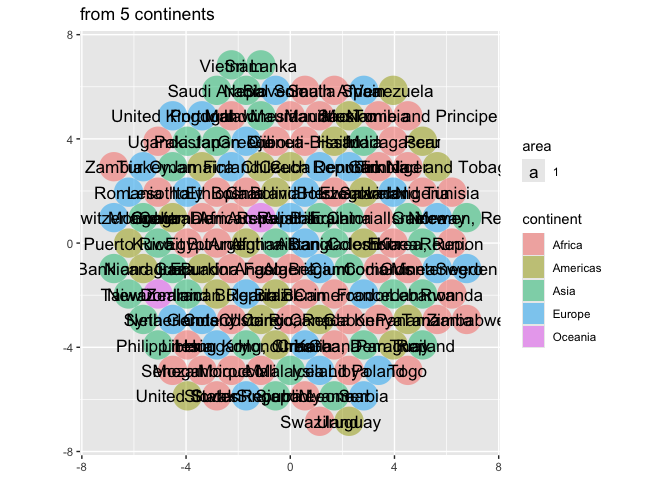
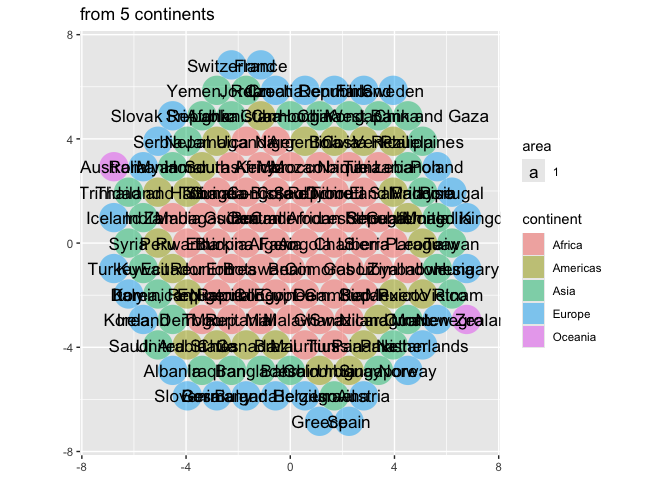
testing with more disaggregation and not great, but hopefully quick fix ahead

Changed region(s): [[0.125, 0.0938, 0.75, 0.9062]]

diff --git a/README.md b/README.md
@@ -146,7 +146,8 @@ compute_panel_circlepack_center <- function(data, scales){
   
   data %>% 
     count(wt = area) %>% 
-    arrange(id) %>% # this doesn't feel very principled
+    ungroup() %>% 
+    # arrange(id) %>% # this doesn't feel very principled
     rename(area = n) ->
   data
 
@@ -291,7 +292,8 @@ compute_panel_circlepack <- function(data, scales){
   
   data %>% 
     count(wt = area) %>% 
-    arrange(id) %>%  # this doesn't feel very principled
+    ungroup() %>% 
+    # arrange(id) %>%  # this doesn't feel very principled
     rename(area = n) ->
   data
 
@@ -962,15 +964,57 @@ tidytitanic::tidy_titanic %>%
   head()
 ```
 
-    tidytitanic::tidy_titanic() + 
-      ggplot() + 
-      aes(id = "all") + 
-      geom_circlepack(alpha = .5) + 
-      geom_circlepack_text(aes(label = afterstat(count))) + # automatically labels with count
-      aes(linetype = sex) + 
-      aes(color = age) + 
-      aes(alpha = survived) + 
-      facet_wrap(~class)
+``` r
+tidytitanic::tidy_titanic %>% 
+  ggplot() + 
+  aes(id = "all") + 
+  geom_circlepack(alpha = .5) +
+  geom_circlepack_text(aes(label = after_stat(area))) +
+  coord_equal()
+#> Warning in geom_circlepack(alpha = 0.5): All aesthetics have length 1, but the data has 2201 rows.
+#> ℹ Please consider using `annotate()` or provide this layer with data containing
+#>   a single row.
+#> Warning in geom_circlepack_text(aes(label = after_stat(area))): All aesthetics have length 1, but the data has 2201 rows.
+#> ℹ Please consider using `annotate()` or provide this layer with data containing
+#>   a single row.
+```
+
+<img src="man/figures/README-unnamed-chunk-10-1.png" width="100%" />
+
+``` r
+
+last_plot() +
+  aes(fill = sex) 
+```
+
+<img src="man/figures/README-unnamed-chunk-10-2.png" width="100%" />
+
+``` r
+
+last_plot() + 
+  aes(alpha = age) 
+#> Warning: Using alpha for a discrete variable is not advised.
+```
+
+<img src="man/figures/README-unnamed-chunk-10-3.png" width="100%" />
+
+``` r
+
+last_plot() + 
+  aes(alpha = survived) 
+#> Warning: Using alpha for a discrete variable is not advised.
+```
+
+<img src="man/figures/README-unnamed-chunk-10-4.png" width="100%" />
+
+``` r
+
+last_plot() + 
+  facet_wrap(~class)
+#> Warning: Using alpha for a discrete variable is not advised.
+```
+
+<img src="man/figures/README-unnamed-chunk-10-5.png" width="100%" />
 
 ## Quiet the joins.
 
